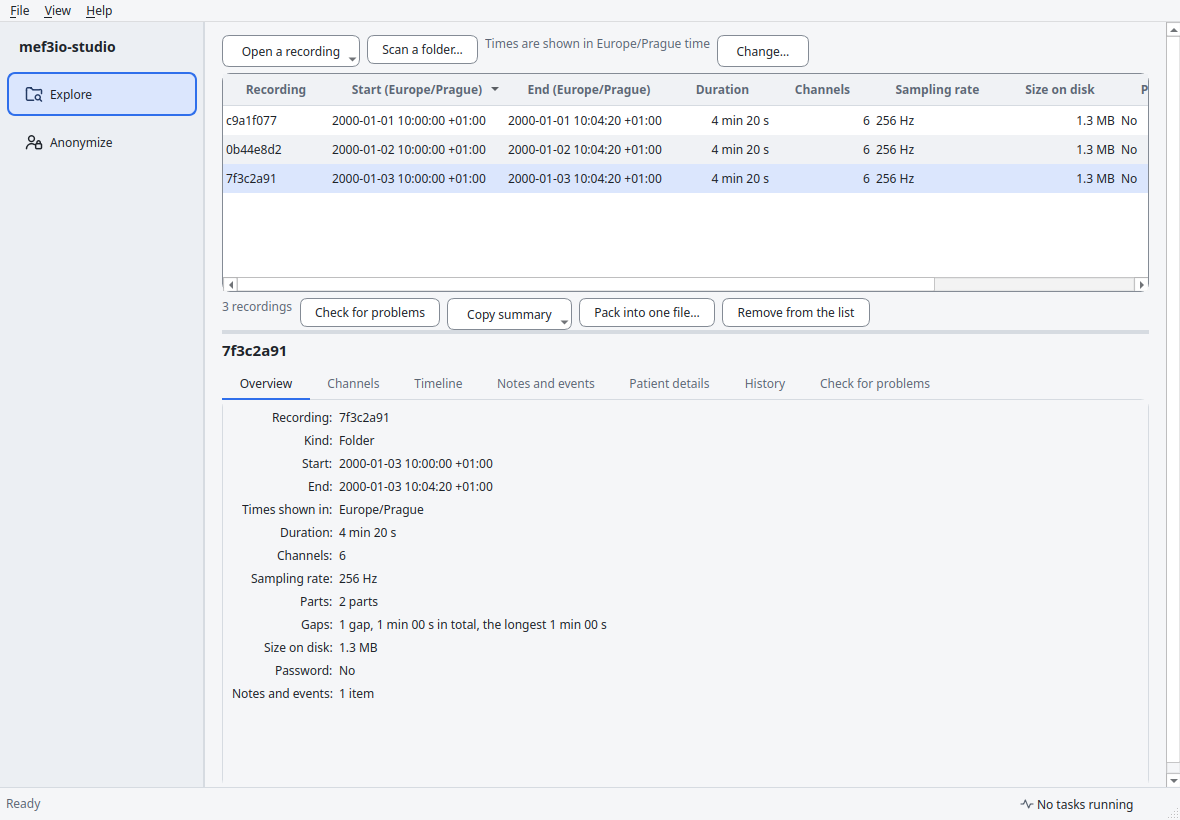
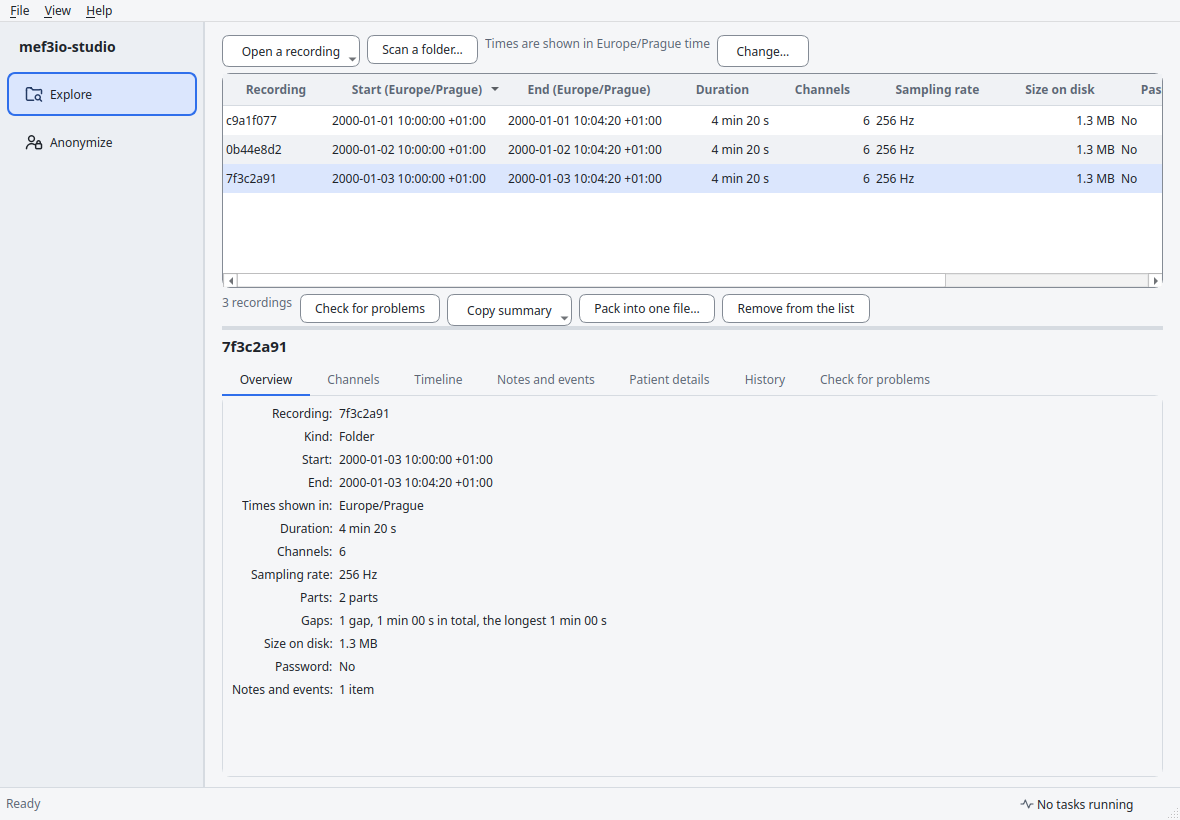
Address review round 5: the Explore page fills the window again
- The scroll area took the wrapping toolbar's preferred height as the
  page's minimum, so the page always scrolled and stopped resizing with
  the window. The page's content now reports its minimum height for a
  given width; it fills the window and scrolls only below that (test at
  1280x800 and 1400x900; screenshots regenerated).
- The scroll area takes no keyboard focus, so focus stays on the list.
- Columns are fitted and password prompts opened after the batch re-sort.

Claude-Session: https://claude.ai/code/session_01PWYBRHqzczzUfo99eFKLmQ

diff --git a/src/mef3io_studio/explorer/page.py b/src/mef3io_studio/explorer/page.py
@@ -84,6 +84,28 @@ def _plural(n: int, one: str) -> str:
     return format_count(n, one)
 
 
+class _FitInner(QWidget):
+    """The page's content inside its scroll area. Its toolbar wraps (height
+    depends on width), and for such a widget QScrollArea takes the
+    PREFERRED height as the minimum, so the page would always scroll. This
+    reports the minimum instead: the page fills the window and scrolls only
+    when the window is shorter than that."""
+
+    def heightForWidth(self, width: int) -> int:  # noqa: N802
+        layout = self.layout()
+        margins = layout.contentsMargins()
+        toolbar = layout.itemAt(0).layout()
+        body = layout.itemAt(1).widget()
+        inner_width = width - margins.left() - margins.right()
+        return (
+            margins.top()
+            + margins.bottom()
+            + toolbar.heightForWidth(inner_width)
+            + layout.spacing()
+            + body.minimumSizeHint().height()
+        )
+
+
 class DropZone(QFrame):
     """Shown while the list is empty: what to do first."""
 
@@ -354,7 +376,7 @@ class ExplorerPage(QWidget):
         # large text) the page scrolls instead of forcing the window, and
         # the sidebar next to it, to change size. Platforms measure widgets
         # differently, so no single minimum width can be relied on.
-        inner = QWidget()
+        inner = _FitInner()
         layout = QVBoxLayout(inner)
         layout.setContentsMargins(int(em), int(em * 0.8), int(em), int(em * 0.6))
         layout.addLayout(toolbar)
@@ -363,6 +385,7 @@ class ExplorerPage(QWidget):
         self.scroll.setObjectName("Panel")
         self.scroll.setWidgetResizable(True)
         self.scroll.setFrameShape(QFrame.Shape.NoFrame)
+        self.scroll.setFocusPolicy(Qt.FocusPolicy.NoFocus)  # keep focus on the list
         self.scroll.setWidget(inner)
         outer = QVBoxLayout(self)
         outer.setContentsMargins(0, 0, 0, 0)
@@ -605,11 +628,15 @@ class ExplorerPage(QWidget):
         # re-sort the list on the GUI thread).
         self.proxy.setDynamicSortFilter(False)
         try:
-            self._apply_outcomes(outcomes, prompt, create, job)
+            applied = self._apply_outcomes(outcomes, prompt, create, job)
         finally:
             self.proxy.setDynamicSortFilter(True)  # sorts once, now
+        self._fit_columns()  # after the re-sort: widths come from a sample of rows
+        for entry in applied:
+            if prompt and entry.needs_password:
+                self.unlock(entry)
 
-    def _apply_outcomes(self, outcomes, prompt: bool, create: bool, job) -> None:
+    def _apply_outcomes(self, outcomes, prompt: bool, create: bool, job) -> list:
         added: list[RecordingEntry] = []
         applied: list[RecordingEntry] = []
         for outcome in outcomes:
@@ -640,10 +667,7 @@ class ExplorerPage(QWidget):
             self._refresh_body()
             if self.current_entry() is None:
                 self.select_entry(added[0])
-        self._fit_columns()
-        for entry in applied:
-            if prompt and entry.needs_password:
-                self.unlock(entry)
+        return applied
 
     # ------------------------------------------------------------------
     # Passwords

diff --git a/tests/test_explorer_ui.py b/tests/test_explorer_ui.py
@@ -499,3 +499,25 @@ def test_sorting_notes_keeps_the_selection_on_the_same_note(page, qtbot, tmp_pat
     table.sortByColumn(0, Qt.SortOrder.DescendingOrder)
     row = table.selectionModel().selectedRows()[0].row()
     assert table.rows.objects[row] is chosen and row == 49
+
+
+@pytest.mark.parametrize("size", [(1280, 800), (1400, 900)])
+def test_page_fills_the_window_without_scrolling(window, qtbot, tmp_path, size):
+    """Regression (review round 5): the page sits in a scroll area for very
+    small windows, but at normal sizes it fills the window exactly."""
+    window._closing = True
+    window.show()
+    window.resize(*size)
+    page = window.explorer
+    page.open_paths([str(write_plain(tmp_path / "fit.mefd", notes=False))], interactive=False)
+    wait_loaded(qtbot, page, 1)
+    page.select_entry(page.entries()[0])
+    qtbot.wait(100)
+    assert not page.scroll.verticalScrollBar().isVisible()
+    assert page.scroll.widget().height() == page.scroll.viewport().height()
+    # The list and the details grow with the window.
+    before = page.tabs.height() + page.table.height()
+    window.resize(size[0], size[1] + 200)
+    qtbot.wait(100)
+    assert page.tabs.height() + page.table.height() > before
+    assert not page.scroll.verticalScrollBar().isVisible()
